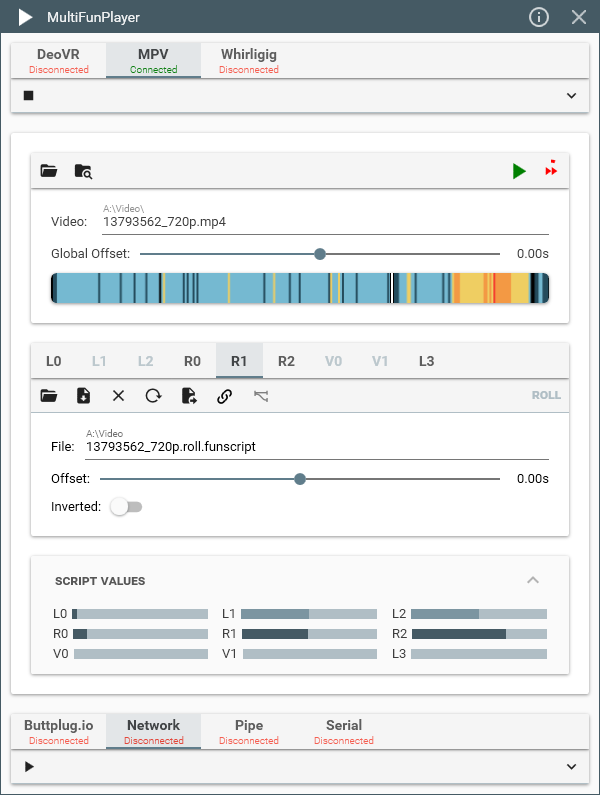
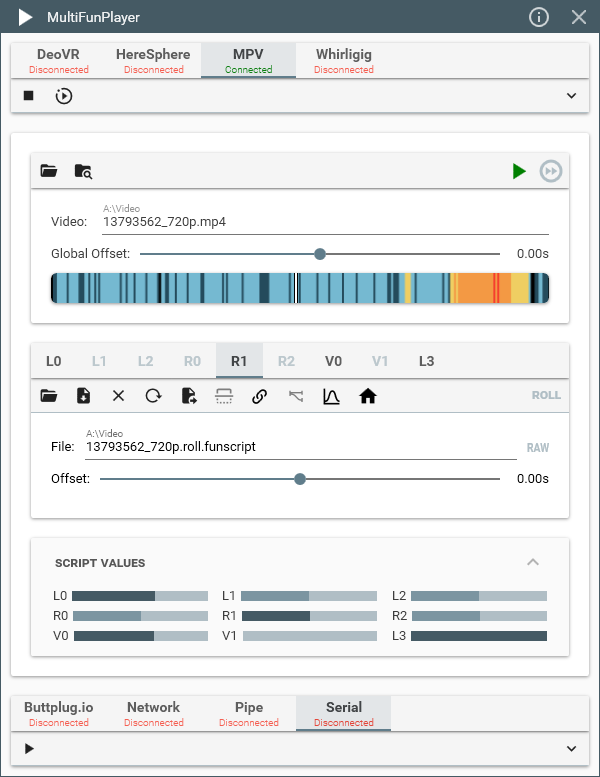
Update README.md

diff --git a/README.md b/README.md
@@ -8,14 +8,16 @@
 
 # About
 
-MultiFunPlayer is a simple app to synchronize your devices (e.g. [OSR](https://www.patreon.com/tempestvr) or [buttplug.io](https://buttplug.io) supported devices) with any video using funscripts. Supported video players are [DeoVR](https://deovr.com/), [MPV](https://mpv.io/) and [Whirligig](http://whirligig.xyz/).
+MultiFunPlayer is a simple app to synchronize your devices (e.g. [OSR](https://www.patreon.com/tempestvr) or [buttplug.io](https://buttplug.io) supported devices) with any video using funscripts. Supported video players are [DeoVR](https://deovr.com/), [MPV](https://mpv.io/), [HereSphere](https://store.steampowered.com/app/1234730/HereSphere/) and [Whirligig](http://whirligig.xyz/).
 The player's main feature is the ability to play multiple funscripts at the same time, allowing for greater movement fidelity.
 
 # Features
 
 * One of the first multi axis funscript players
-* Supports [DeoVR](https://deovr.com/), [MPV](https://mpv.io/) and [Whirligig](http://whirligig.xyz/) video players
+* Supports [DeoVR](https://deovr.com/), [MPV](https://mpv.io/), [HereSphere](https://store.steampowered.com/app/1234730/HereSphere/) and [Whirligig](http://whirligig.xyz/) video players
 * Auto detection and connection to any supported running video player
+* Real time script smoothing using pchip or makima interpolation
+* Auto-home feature which when video is paused moves axis to its default value after some delay
 * Supports local, DLNA, web and unc video paths
 * Ability to output to [buttplug.io](https://buttplug.io), Network TCP/UDP, Namedpipes and Serial
 * Soft start sync feature to prevent unwanted motion
